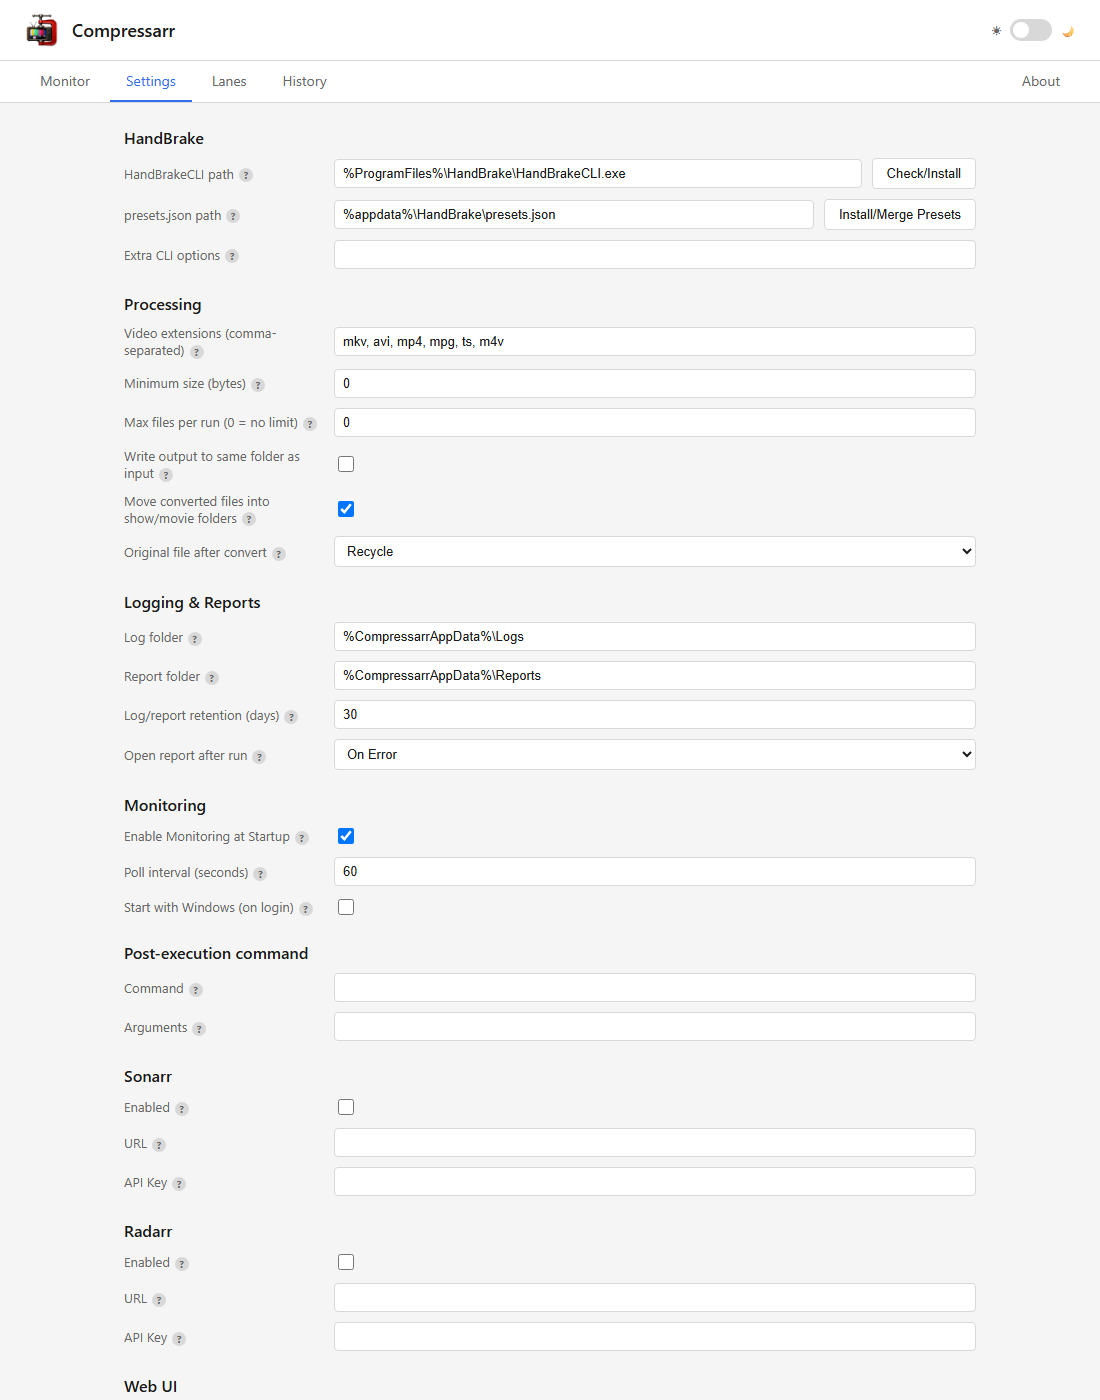
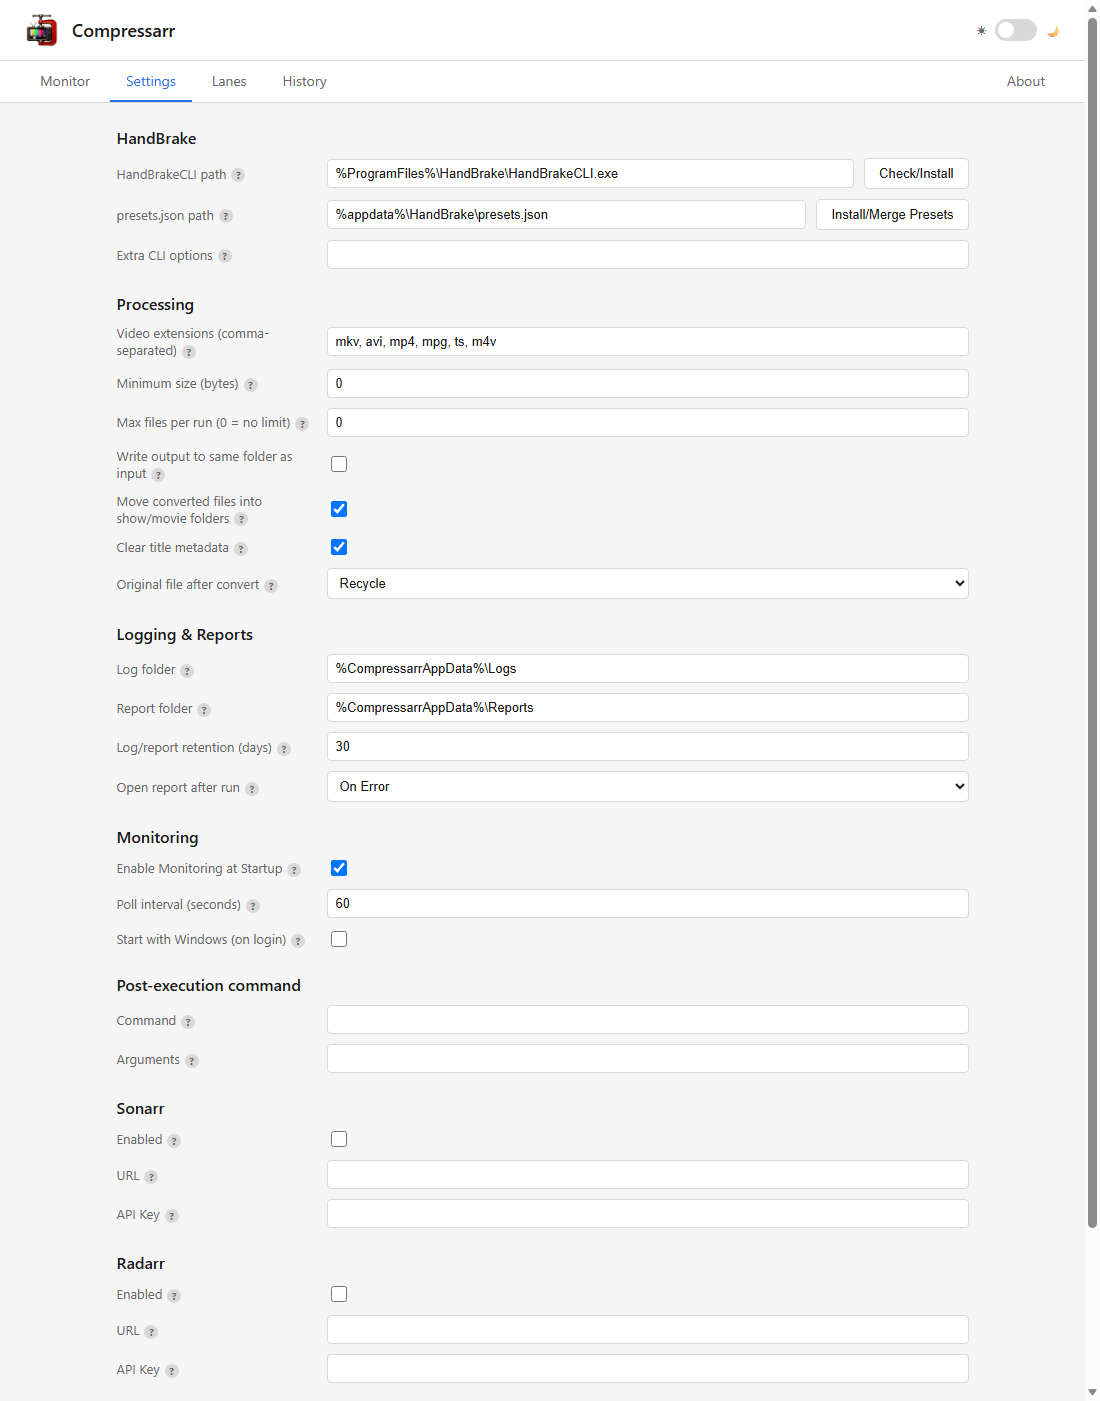
Fix Clear title metadata setting being a permanent no-op
IMetadataService.Enabled was never set anywhere, so the TagLib-Sharp
title-stripping feature ported from v1.1 silently never ran. Adds a
real Processing.ClearTitleMetadata config field (default true, wired
into RunOrchestrator) with a Settings-page toggle, help tooltip, and
matching README/config-reference documentation and screenshot update.

diff --git a/src/Compressarr.Web/wwwroot/index.html b/src/Compressarr.Web/wwwroot/index.html
@@ -47,6 +47,10 @@
       <input type="checkbox" id="moveFiles" />
     </div>
     <div class="field-row">
+      <label>Clear title metadata<span class="help-tag" tabindex="0" title="Strips the embedded title tag from converted files (via TagLib-Sharp) so a media server reads the filename instead of stale or incorrect metadata.">?<span class="help-tip">Strips the embedded title tag from converted files (via TagLib-Sharp) so a media server reads the filename instead of stale or incorrect metadata.</span></span></label>
+      <input type="checkbox" id="clearTitleMetadata" />
+    </div>
+    <div class="field-row">
       <label for="deleteAfterConvert">Original file after convert<span class="help-tag" tabindex="0" title="What happens to the source file once conversion succeeds: keep it, delete it, or send it to the Recycle Bin.">?<span class="help-tip">What happens to the source file once conversion succeeds: keep it, delete it, or send it to the Recycle Bin.</span></span></label>
       <select id="deleteAfterConvert">
         <option value="Maintain">Maintain</option>

diff --git a/src/Compressarr.Web/wwwroot/settings.js b/src/Compressarr.Web/wwwroot/settings.js
@@ -15,6 +15,7 @@ function fillForm(dto) {
   document.getElementById('limit').value = dto.limit;
   document.getElementById('outSameAsIn').checked = dto.outSameAsIn;
   document.getElementById('moveFiles').checked = dto.moveFiles;
+  document.getElementById('clearTitleMetadata').checked = dto.clearTitleMetadata;
   document.getElementById('deleteAfterConvert').value = dto.deleteAfterConvert;
   document.getElementById('logFilePath').value = dto.logFilePath;
   document.getElementById('reportPath').value = dto.reportPath;
@@ -43,6 +44,7 @@ function readForm() {
     outSameAsIn: document.getElementById('outSameAsIn').checked,
     deleteAfterConvert: document.getElementById('deleteAfterConvert').value,
     moveFiles: document.getElementById('moveFiles').checked,
+    clearTitleMetadata: document.getElementById('clearTitleMetadata').checked,
     limit: parseInt(document.getElementById('limit').value, 10) || 0,
     minSizeBytes: parseInt(document.getElementById('minSizeBytes').value, 10) || 0,
     logFilePath: document.getElementById('logFilePath').value,

diff --git a/src/Compressarr.Core/Orchestration/RunOrchestrator.cs b/src/Compressarr.Core/Orchestration/RunOrchestrator.cs
@@ -30,6 +30,7 @@ public sealed class RunOrchestrator : IRunOrchestrator
     private readonly IPathExpander _pathExpander;
     private readonly IHandBrakePresetService _presets;
     private readonly IConversionOrchestrator _conversionOrchestrator;
+    private readonly IMetadataService _metadata;
     private readonly IResumeStateStore _resumeStore;
     private readonly IRunLogger _logger;
     private readonly IRunHistoryStore _historyStore;
@@ -45,6 +46,7 @@ public sealed class RunOrchestrator : IRunOrchestrator
         IPathExpander pathExpander,
         IHandBrakePresetService presets,
         IConversionOrchestrator conversionOrchestrator,
+        IMetadataService metadata,
         IResumeStateStore resumeStore,
         IRunLogger logger,
         IRunHistoryStore historyStore,
@@ -59,6 +61,7 @@ public sealed class RunOrchestrator : IRunOrchestrator
         _pathExpander = pathExpander;
         _presets = presets;
         _conversionOrchestrator = conversionOrchestrator;
+        _metadata = metadata;
         _resumeStore = resumeStore;
         _logger = logger;
         _historyStore = historyStore;
@@ -119,6 +122,8 @@ public sealed class RunOrchestrator : IRunOrchestrator
         {
             _logger.Log($"Resuming previous incomplete run ({resumeState.Count} file(s) tracked).");
         }
+
+        _metadata.Enabled = config.Processing.ClearTitleMetadata;
 
         var laneResults = new Dictionary<string, IReadOnlyList<ConversionResult>>();
         try

diff --git a/src/Compressarr.Web/ConfigMapping.cs b/src/Compressarr.Web/ConfigMapping.cs
@@ -16,6 +16,7 @@ internal static class ConfigMapping
         OutSameAsIn: config.Processing.OutSameAsIn,
         DeleteAfterConvert: config.Processing.DeleteAfterConvert.ToString(),
         MoveFiles: config.Processing.MoveFiles,
+        ClearTitleMetadata: config.Processing.ClearTitleMetadata,
         Limit: config.Processing.Limit,
         MinSizeBytes: config.Processing.MinSizeBytes,
         LogFilePath: config.Logging.LogFilePath,
@@ -41,6 +42,7 @@ internal static class ConfigMapping
         config.Processing.OutSameAsIn = dto.OutSameAsIn;
         config.Processing.DeleteAfterConvert = Enum.Parse<DeleteAfterConvertMode>(dto.DeleteAfterConvert);
         config.Processing.MoveFiles = dto.MoveFiles;
+        config.Processing.ClearTitleMetadata = dto.ClearTitleMetadata;
         config.Processing.Limit = dto.Limit;
         config.Processing.MinSizeBytes = dto.MinSizeBytes;
         config.Logging.LogFilePath = dto.LogFilePath;

diff --git a/src/Compressarr.Core/Config/CompressarrConfig.cs b/src/Compressarr.Core/Config/CompressarrConfig.cs
@@ -59,6 +59,12 @@ public sealed class ProcessingSettings
     public bool MoveFiles { get; set; } = true;
     public int Limit { get; set; } = 0;
 
+    /// <summary>Strips the embedded title tag from converted files via TagLib-Sharp so a media
+    /// server reads the filename instead of stale/incorrect metadata. Defaults to true since v2
+    /// bundles TagLib-Sharp unconditionally (v1.1 only did this if a taglib-sharp.dll happened to
+    /// be present next to the script).</summary>
+    public bool ClearTitleMetadata { get; set; } = true;
+
     /// <summary>Typed byte count. v1 stored this as a unit-suffix string ("0gb"/"500mb"); v2's
     /// own config file doesn't need to preserve that shape, so this is a plain long, with
     /// ByteSizeParser/ByteSizeFormatter available for UI display and for parsing a hand-edited

diff --git a/src/Compressarr.Web/Dtos/SettingsDto.cs b/src/Compressarr.Web/Dtos/SettingsDto.cs
@@ -8,6 +8,7 @@ public sealed record SettingsDto(
     bool OutSameAsIn,
     string DeleteAfterConvert,
     bool MoveFiles,
+    bool ClearTitleMetadata,
     int Limit,
     long MinSizeBytes,
     string LogFilePath,

diff --git a/README.md b/README.md
@@ -148,6 +148,7 @@ these pages has a small **?** next to it with a tooltip explaining what it does.
 | Max files per run | Caps how many files are picked up in one pass (0 = no limit) |
 | Write output to same folder as input | Convert in place instead of using each lane's Output folder |
 | Move converted files into show/movie folders | Turns on the TV/Movie filing step described above |
+| Clear title metadata | Strips the embedded title tag (via TagLib-Sharp) so a media server reads the filename instead of stale/incorrect metadata - on by default |
 | Original file after convert | Maintain, Delete, or Recycle the source file once conversion succeeds |
 | Log folder / Report folder | Where run logs, the history CSV, and HTML reports are written |
 | Log/report retention (days) | Logs and reports older than this are cleaned up automatically |
@@ -292,6 +293,7 @@ from the Lanes page.
     "OutSameAsIn": false,
     "DeleteAfterConvert": "Recycle",
     "MoveFiles": true,
+    "ClearTitleMetadata": true,
     "Limit": 0,
     "MinSizeBytes": 0
   },
@@ -323,13 +325,15 @@ installer/
   Compressarr.iss           Inno Setup script that packages the self-contained publish output
 tests/
   Compressarr.Core.Tests/   xUnit tests for Core
+CHANGELOG.md               Release history
 ```
 
 ## TagLib-Sharp (metadata handling)
 
 Compressarr uses [TagLib-Sharp](https://github.com/mono/taglib-sharp) to strip the embedded title
 tag from converted files, so a media server reads the filename instead of a stale/incorrect title
-baked into the file's metadata.
+baked into the file's metadata. This is controlled by the **Clear title metadata** setting on the
+Settings page (on by default).
 
 - **What it is**: an open-source, cross-platform .NET library for reading and writing media file
   tags.
